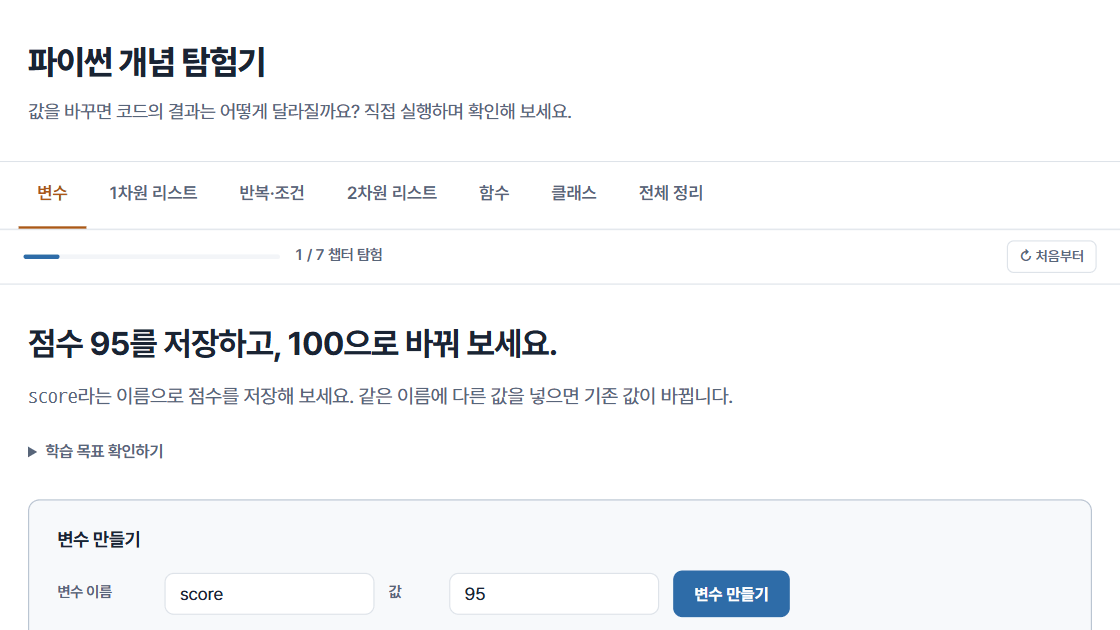
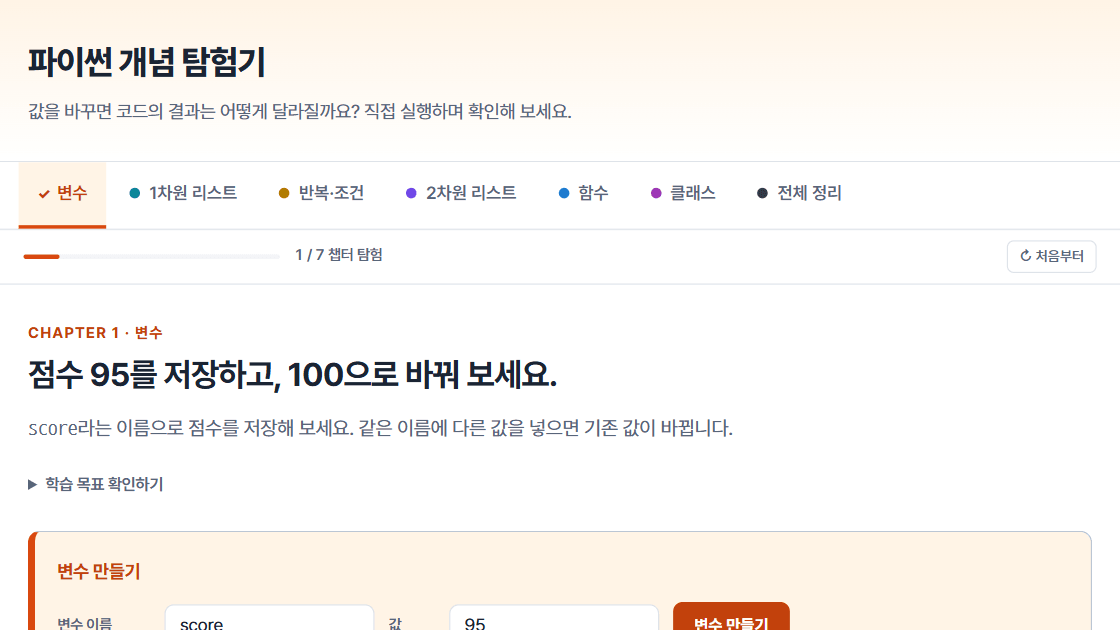
chore(appstore): 파이썬 개념 탐험기 썸네일을 새 챕터 색 디자인으로 다시 찍음, 캐시 jungle-v88

diff --git a/sw.js b/sw.js
@@ -1,4 +1,4 @@
-const CACHE = 'jungle-v87';
+const CACHE = 'jungle-v88';
 
 const ASSETS = [
   './',
